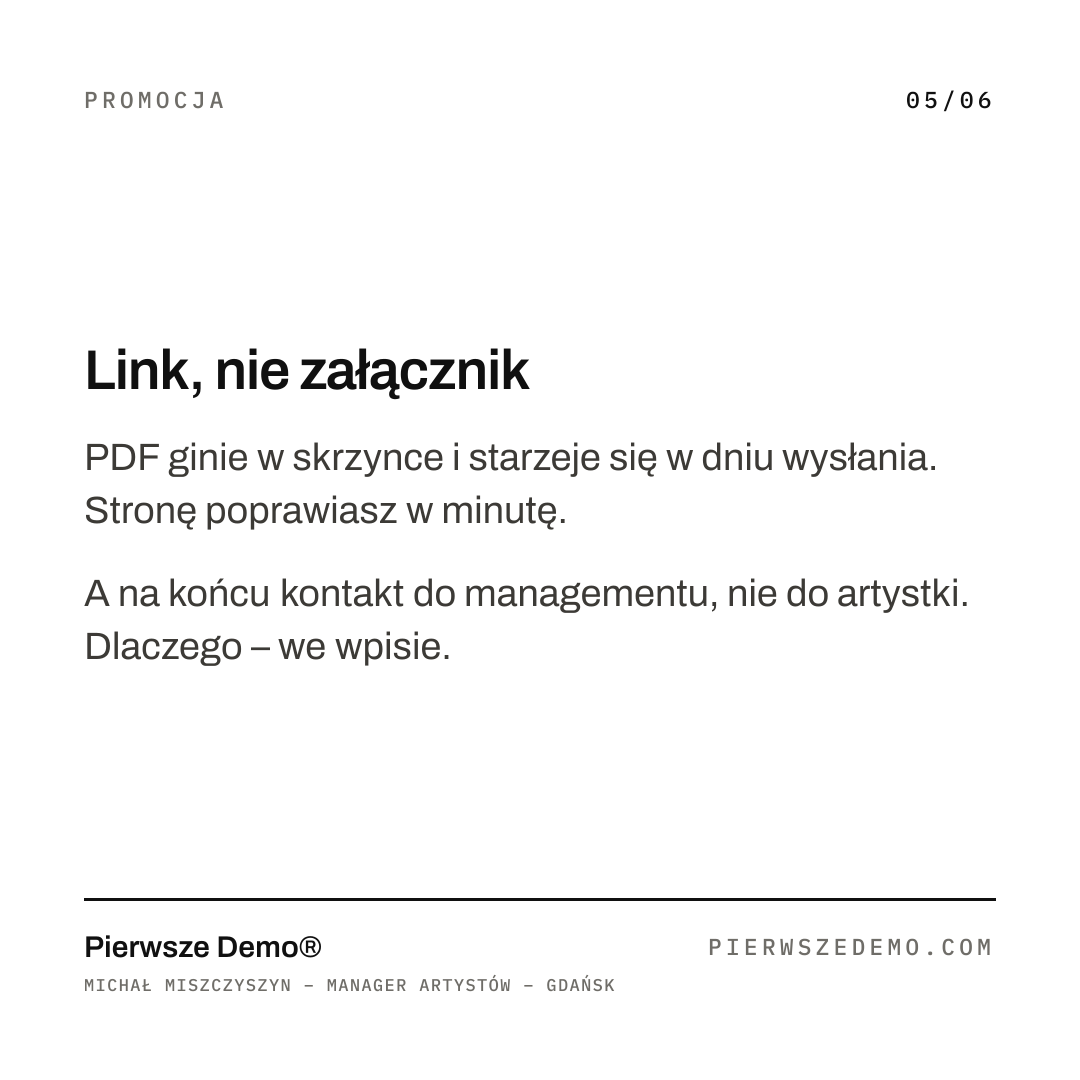
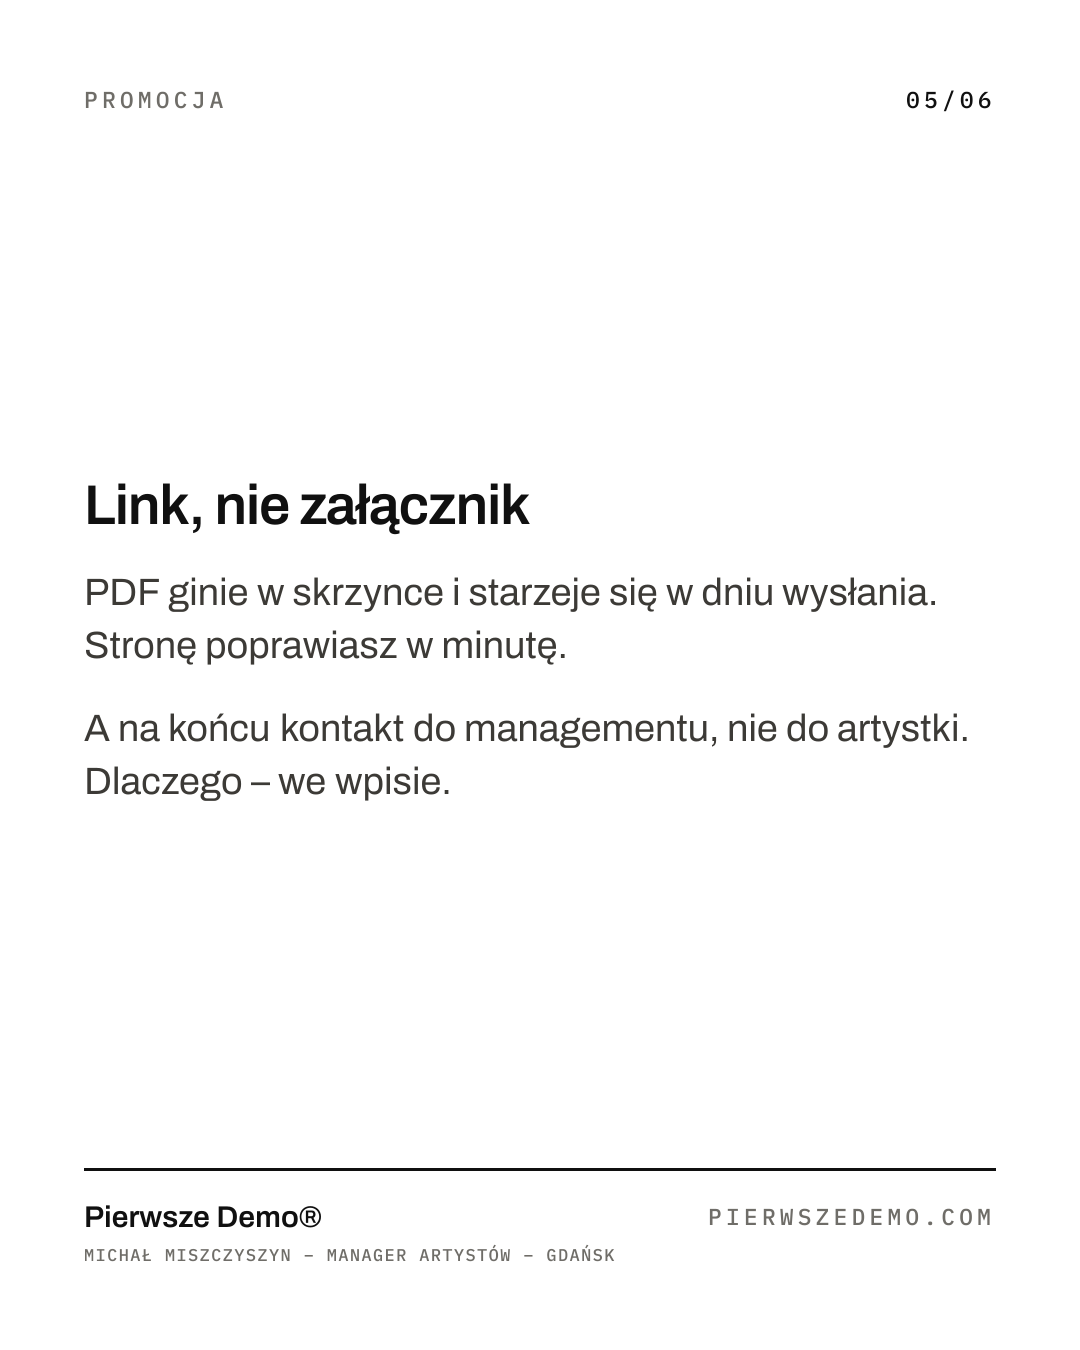
feat(ig): kadr 1080×1350 (4:5) zamiast kwadratu
Pionowy 4:5 to najwyższy format, jaki Instagram pokazuje w feedzie bez
przycinania – kwadrat oddaje ok. 20% wysokości ekranu sąsiednim postom.
Układ slajdów bez zmian, karuzela EPK przegenerowana.

diff --git a/.agents/skills/instagram-carousel/SKILL.md b/.agents/skills/instagram-carousel/SKILL.md
@@ -1,6 +1,6 @@
 ---
 name: instagram-carousel
-description: Generuje karuzelę na Instagram z istniejącego wpisu na blogu pierwszedemo.com – kwadratowe grafiki 1080×1080 (okładka z hookiem, 1–4 slajdy z esencją wpisu, slajd CTA) plus gotowy opis posta. Grafiki rysuje skrypt satori+sharp w języku wizualnym strony (biel, twarda linia, Archivo, IBM Plex Mono); wynik ląduje w instagram/<slug>/. Użyj, gdy pada „karuzela na Instagram”, „grafiki na IG”, „post na Instagram z wpisu”, „instagramowa wersja wpisu”, „promocja wpisu w social mediach”.
+description: Generuje karuzelę na Instagram z istniejącego wpisu na blogu pierwszedemo.com – pionowe grafiki 1080×1350 (4:5) (okładka z hookiem, 1–4 slajdy z esencją wpisu, slajd CTA) plus gotowy opis posta. Grafiki rysuje skrypt satori+sharp w języku wizualnym strony (biel, twarda linia, Archivo, IBM Plex Mono); wynik ląduje w instagram/<slug>/. Użyj, gdy pada „karuzela na Instagram”, „grafiki na IG”, „post na Instagram z wpisu”, „instagramowa wersja wpisu”, „promocja wpisu w social mediach”.
 ---
 
 # instagram-carousel
@@ -114,7 +114,7 @@ bun .agents/skills/instagram-carousel/scripts/generate.mjs <slug>
 
 Powstaje `instagram/<slug>/01.png` (okładka), `02.png…` (treść), ostatni numer
 to CTA na czarnym tle. Skrypt najpierw usuwa stare `NN.png` z katalogu, więc
-po skróceniu karuzeli nie zostają slajdy z nieaktualną numeracją. PNG 1080×1080 – Instagram i tak przekompresuje je do
+po skróceniu karuzeli nie zostają slajdy z nieaktualną numeracją. PNG 1080×1350 (4:5) – Instagram i tak przekompresuje je do
 JPG, ale płaskie plamy i ostre krawędzie tej estetyki wychodzą z PNG najczyściej.
 
 ## Krok 5 – kontrola wzrokowa

diff --git a/AGENTS.md b/AGENTS.md
@@ -219,7 +219,7 @@ They are expressed as `clamp()`/`minmax()` or gated behind `lg:`.
   The pierwszedemo skills and `instagram-carousel` are this repo's own skills and
   are deliberately *not* in `skills-lock.json`: that file pins upstream skills
   by `computedHash`, and a locally authored one would fail every sync.
-- `instagram-carousel` turns a published post into a 1080×1080 carousel
+- `instagram-carousel` turns a published post into a 1080×1350 (4:5) carousel
   (cover / 1–4 content slides / CTA) plus a caption, written to
   `instagram/<slug>/`. Its `scripts/generate.mjs` mirrors `src/og.ts`
   (satori + sharp, same palette and footer); it vendors its own
